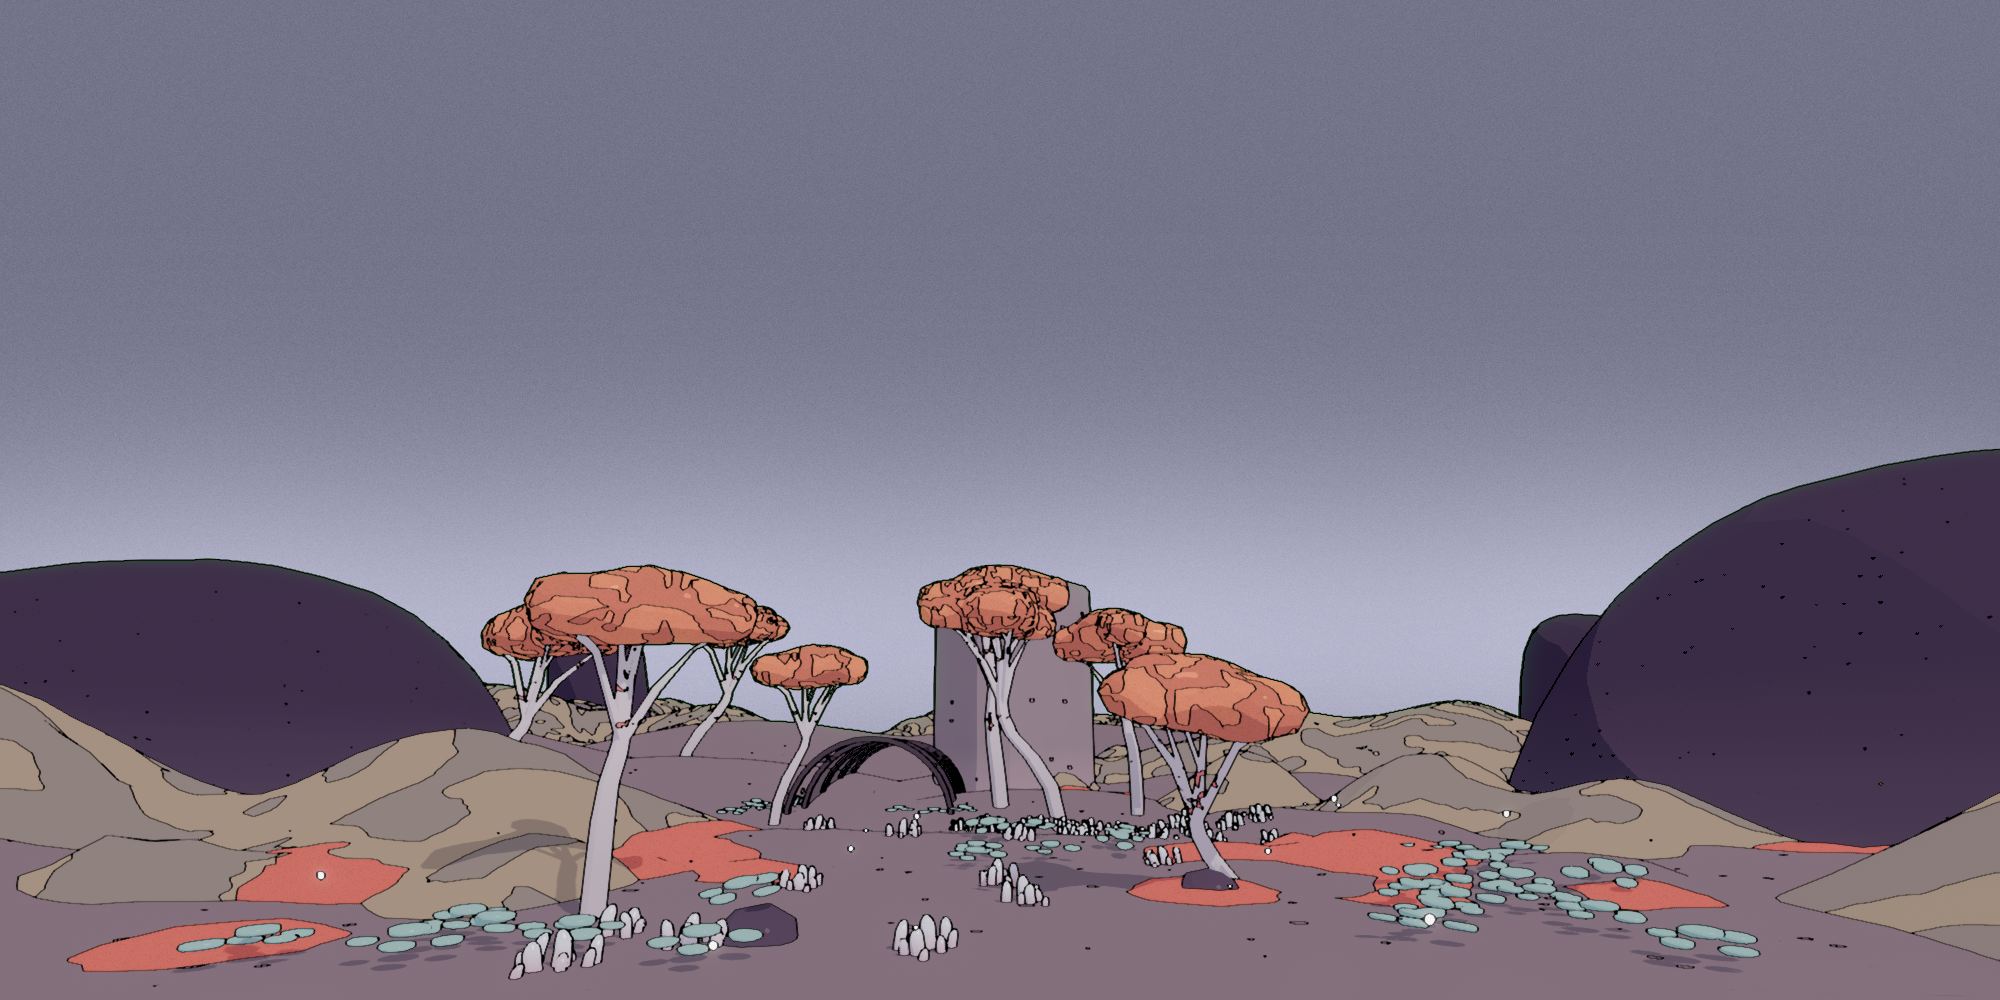
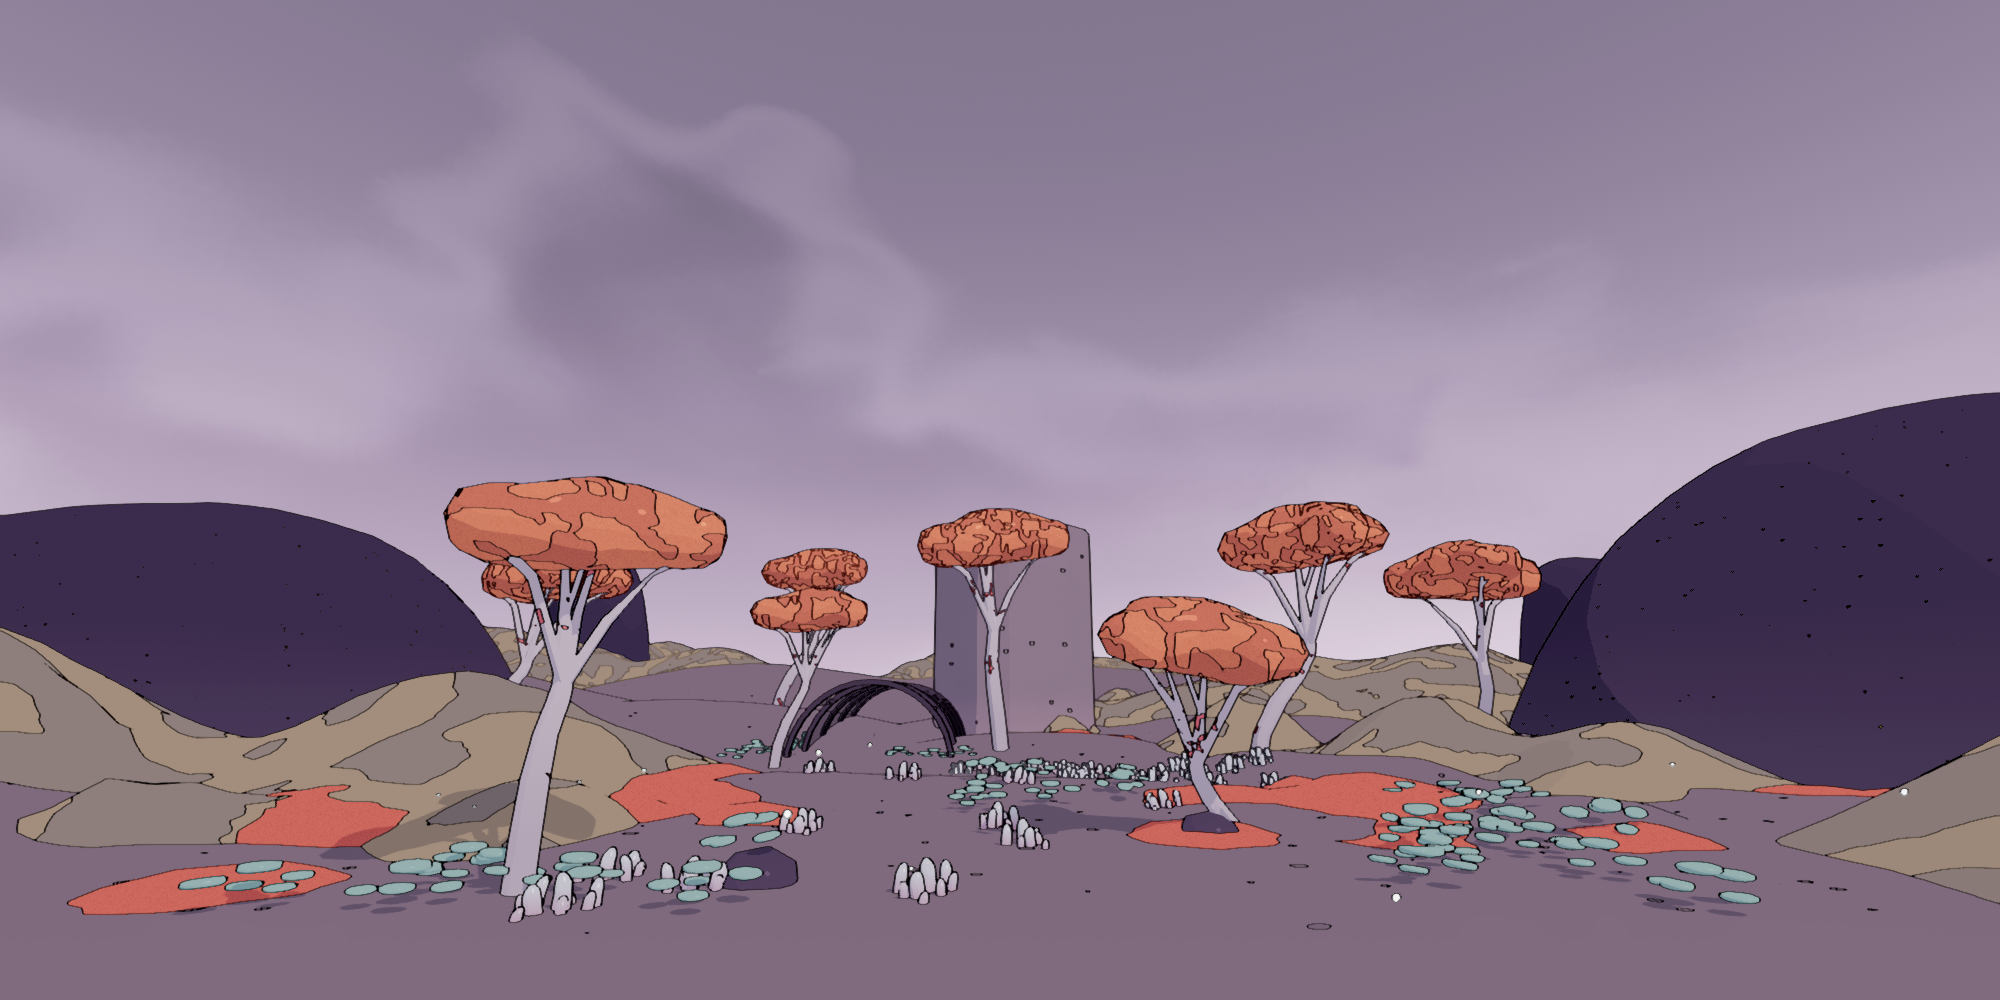
better colors

diff --git a/js/random.js b/js/random.js
@@ -1,8 +1,8 @@
 let real_headbackground =  "linear-gradient(#6698D9, white)";
-let real_background = "#CD946F  ";
+let real_background = "#cf8f65   ";
 let real_text = "#000";
 let laser_headbackground = "linear-gradient(90deg, #996fd6, #d0c9ea)";
-let laser_background = "#83707B ";
+let laser_background = "#806a7e  ";
 let laser_text = "#fffdd0";
 let white = '#fff';
 let black = '#000';

diff --git a/index.html b/index.html
@@ -99,5 +99,10 @@
   </div>
   <div id = "black-fade">
   </div>
+  <noscript>
+    <style type="text/css">
+        #black-fade {display:none;}
+    </style>
+  </noscript>
 </body>
 </html>
